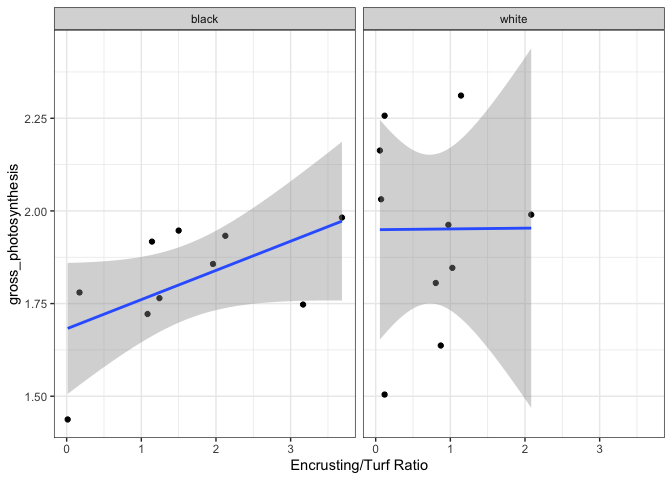
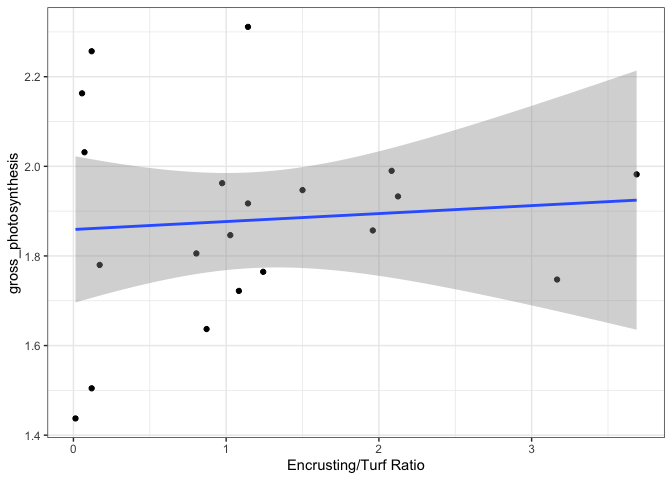
unfacet

diff --git a/Scripts/respo_rates_analysis.md b/Scripts/respo_rates_analysis.md
@@ -405,7 +405,7 @@ rates_SA_long %>%
   ggplot(aes(x = ratio, y = net_photosynthesis)) + 
   geom_point() + 
   geom_smooth(method = "lm") +
-  facet_wrap(~treatment) + 
+  #facet_wrap(~treatment) + 
   theme_bw() +
   labs(x = "Encrusting/Turf Ratio")
 ```
@@ -425,7 +425,7 @@ rates_DW_long %>%
   ggplot(aes(x = ratio, y = net_photosynthesis)) + 
   geom_point() + 
   geom_smooth(method = "lm") +
-  facet_wrap(~treatment) + 
+  #facet_wrap(~treatment) + 
   theme_bw() +
   labs(x = "Encrusting/Turf Ratio")
 ```
@@ -441,7 +441,7 @@ rates_SA_long %>%
   ggplot(aes(x = ratio, y = gross_photosynthesis)) + 
   geom_point() + 
   geom_smooth(method = "lm") +
-  facet_wrap(~treatment) + 
+  #facet_wrap(~treatment) + 
   theme_bw() +
   labs(x = "Encrusting/Turf Ratio")
 ```
@@ -457,7 +457,7 @@ rates_DW_long %>%
   ggplot(aes(x = ratio, y = gross_photosynthesis)) + 
   geom_point() + 
   geom_smooth(method = "lm") +
-  facet_wrap(~treatment) + 
+  #facet_wrap(~treatment) + 
   theme_bw() +
   labs(x = "Encrusting/Turf Ratio")
 ```
@@ -473,7 +473,7 @@ rates_SA_long %>%
   ggplot(aes(x = ratio, y = respiration)) + 
   geom_point() + 
   geom_smooth(method = "lm") +
-  facet_wrap(~treatment) + 
+  #facet_wrap(~treatment) + 
   theme_bw() +
   labs(x = "Encrusting/Turf Ratio")
 ```
@@ -489,7 +489,7 @@ rates_DW_long %>%
   ggplot(aes(x = ratio, y = respiration)) + 
   geom_point() + 
   geom_smooth(method = "lm") +
-  facet_wrap(~treatment) + 
+  #facet_wrap(~treatment) + 
   theme_bw() +
   labs(x = "Encrusting/Turf Ratio")
 ```
